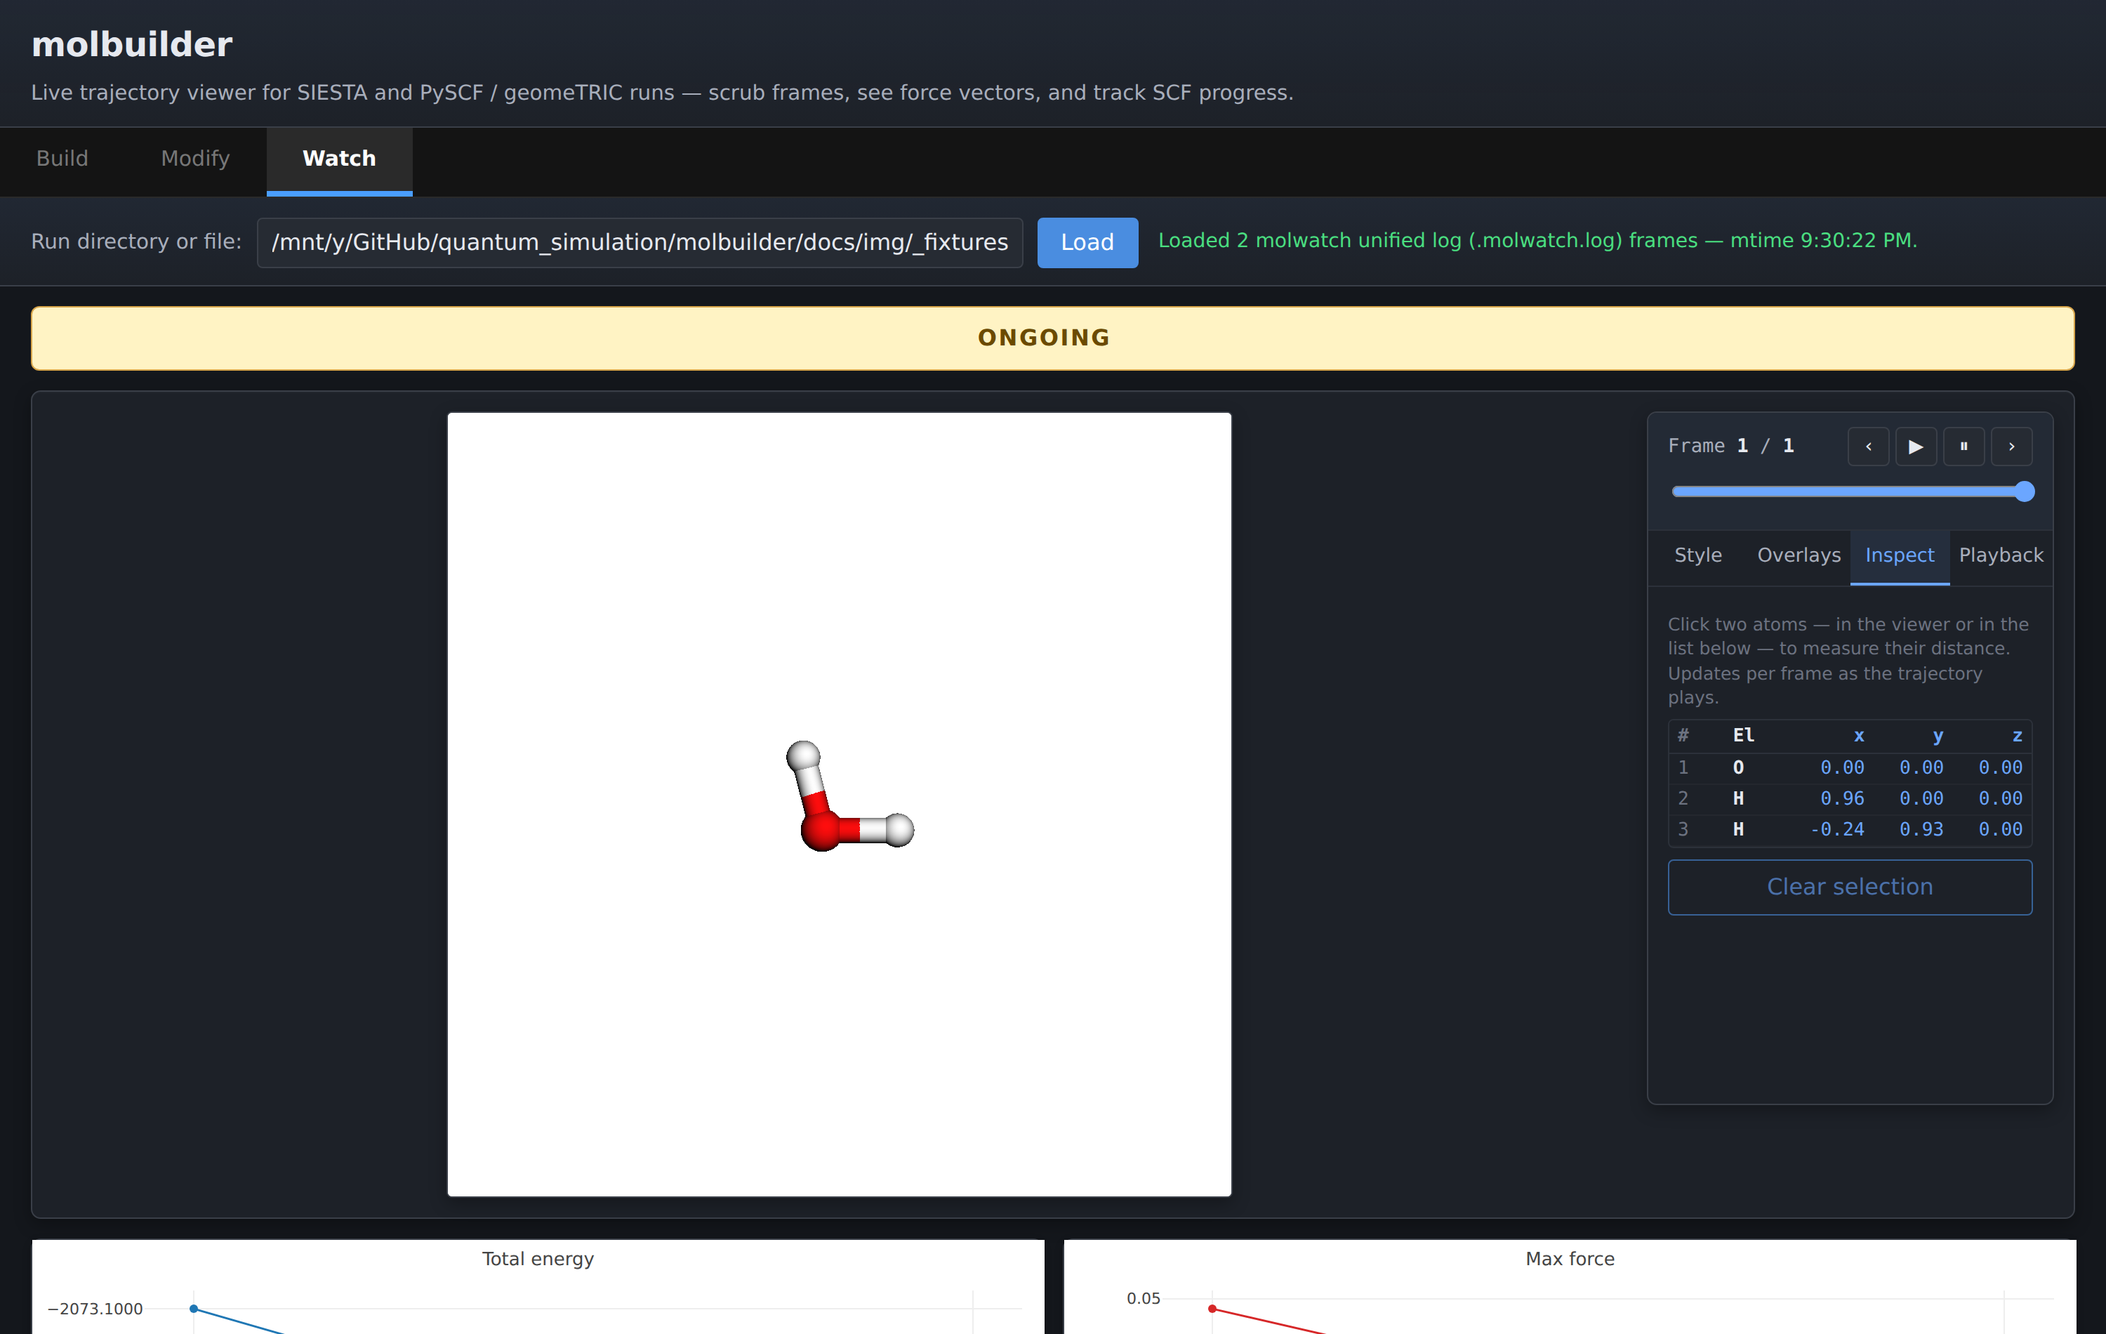
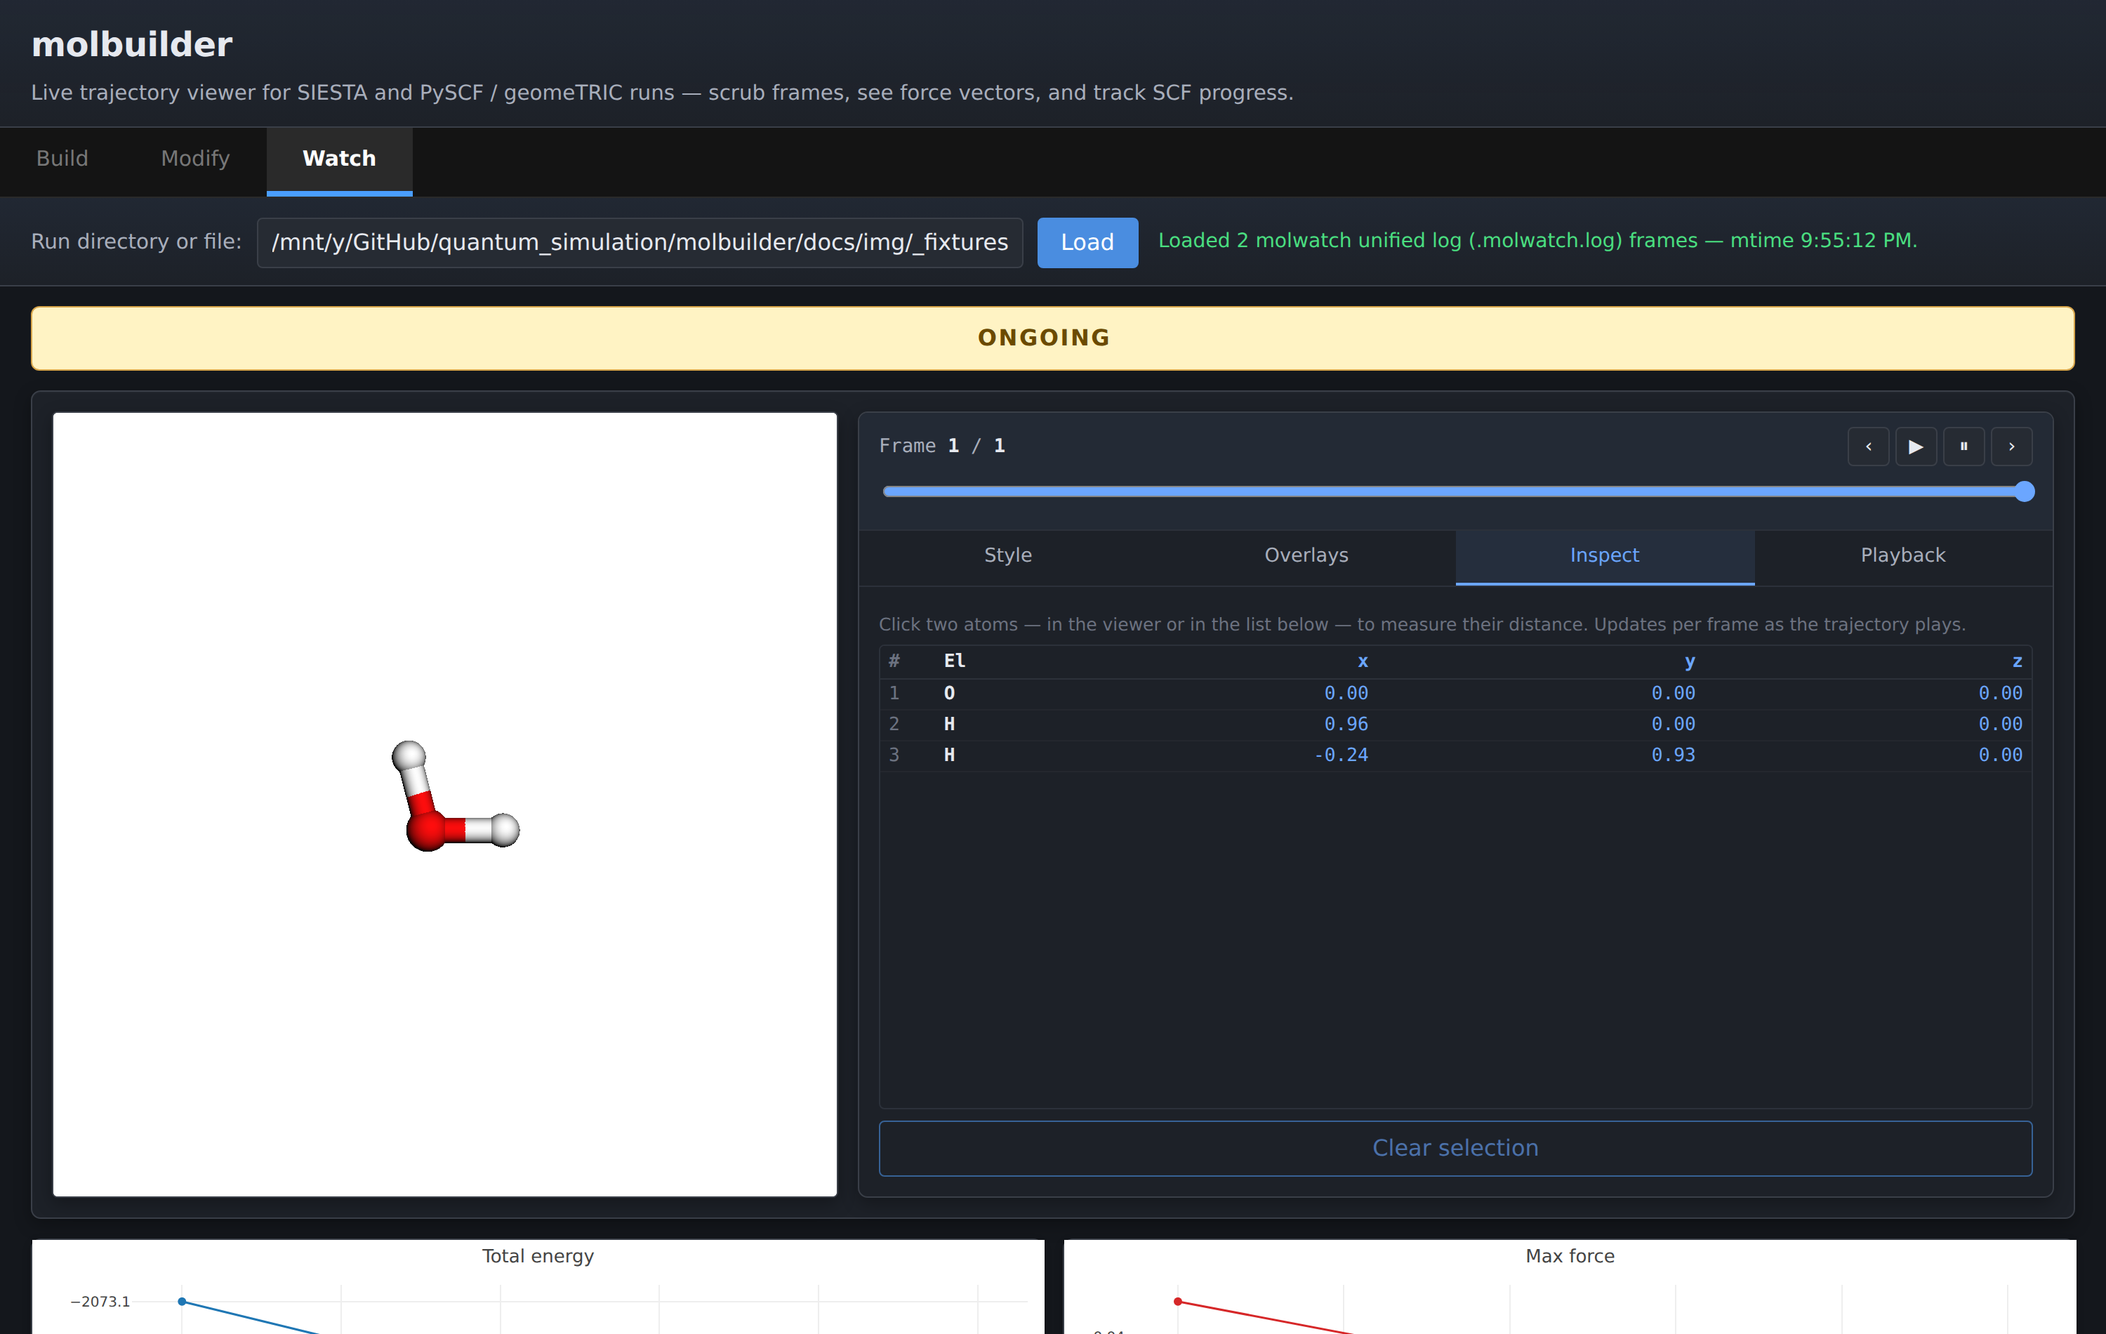
Watch: viewer-row uses full width; 4-plot responsive grid; tighter ticks
Four issues the user raised on the Watch layout, all fixed together.

1. Viewer-row wasted lateral space + over-constrained aside
----------------------------------------------------------
Before: viewer was max-width 560 / margin auto / centred in a much
wider grid column, with the controls aside fixed at 290 px width
and the row height capped at clamp(360, 52vh, 500).  Result on a
wide laptop: ~400 px of dead space left of the viewer, plus a
cramped aside that couldn't use its full content area.

Now: ``grid-template-columns: auto minmax(0, 1fr)``.  The viewer
takes its intrinsic ``--viewer-extent`` square (clamp(320, 60vh,
560)), and the aside expands to fill ALL remaining horizontal
space.  No more dead column.  The aside's vertical extent matches
the viewer (same ``--viewer-extent`` var); internal panel scroll
handles content overflow.

2. Inspect tab had nested scrollbars
------------------------------------
Before: the ctab-panel had ``overflow-y: auto`` AND the
.inspect-list-wrap had its own ``max-height: 240px; overflow-y:
auto``.  Two scrollbars stacked -- confusing, and the atom list
couldn't grow to use the larger control aside.

Now: the Inspect panel becomes a flex column.  The atom-list-wrap
gets ``flex: 1; min-height: 0; overflow-y: auto`` and is the ONE
scrollable region; the hint, distance table, and Clear button stay
anchored at their natural sizes below.  Single scrollbar; the list
grows / shrinks with the aside's height.
[…]

diff --git a/molbuilder/web/static/watch/style.css b/molbuilder/web/static/watch/style.css
@@ -14,12 +14,12 @@
     --shadow-soft:    0 1px 0 rgba(255, 255, 255, 0.02) inset,
                       0 2px 6px rgba(0, 0, 0, 0.25);
 
-    /* The single source of truth for the height of the viewer +
-       controls row.  `clamp` makes it responsive to viewport: never
-       below 360px, never above 500px, around 52% of viewport height
-       in between.  Updating this one variable rescales both columns
-       in lockstep. */
-    --viewer-height:  clamp(360px, 52vh, 500px);
+    /* Square-side length of the viewer panel.  The viewer is
+     * aspect-ratio 1:1 and both width + height resolve to this
+     * variable; the .controls aside picks up the same value as its
+     * fixed height so the two panels align top + bottom.  Updating
+     * this one variable rescales both columns in lockstep. */
+    --viewer-extent:  clamp(320px, 60vh, 560px);
 }
 
 * { box-sizing: border-box; }
@@ -141,24 +141,29 @@ main {
  * stretching to the viewer's height — any extra height triggers the
  * aside's internal scroll instead of pushing the plots row down.
  */
+/* Viewer-row layout:
+ *
+ *   [ square viewer ] [ controls aside grows to fill remaining width ]
+ *
+ * The viewer is a fixed-aspect square (1:1, 320-560 px clamped to
+ * 60vh); the aside takes the remaining horizontal space so we
+ * don't waste lateral room on wide displays.  Both panels share
+ * the viewer's vertical extent via ``align-items: stretch`` -- the
+ * aside ends up exactly as tall as the viewer is wide.  Internal
+ * panel scroll (.ctab-panel.is-active) handles content overflow
+ * inside the aside; the row itself never grows past the viewer's
+ * height clamp.
+ */
 .viewer-row {
     display: grid;
-    grid-template-columns: minmax(0, 1fr) 290px;
+    grid-template-columns: auto minmax(0, 1fr);
     gap: var(--gap);
-    align-items: start;
+    align-items: stretch;
 }
 
-/* Square viewer, consistent with Build + Modify (aspect-ratio 1:1,
- * 320 - 560 px clamped to 60vh).  The right-hand .controls aside
- * tracks the same vertical extent so the two panels align top + bot.
- */
 #viewer {
-    width: 100%;
-    max-width: 560px;
-    aspect-ratio: 1 / 1;
-    min-height: 320px;
-    max-height: min(60vh, 560px);
-    margin: 0 auto;
+    width: var(--viewer-extent);
+    height: var(--viewer-extent);
     border: 1px solid var(--border-strong);
     background: #ffffff;         /* same white bg as builder's viewer-wrap */
     position: relative;
@@ -173,12 +178,9 @@ main {
     display: flex;
     flex-direction: column;
     gap: 0;
-    /* Match the viewer's height clamp so the right aside aligns with
-     * the square viewer panel.  ``--viewer-height`` is kept as the
-     * legacy variable name; value is the same min(60vh, 560px). */
-    height: var(--viewer-height);
-    min-height: 320px;
-    max-height: min(60vh, 560px);
+    /* Track the viewer's square side length so the two panels align
+     * top + bottom; internal panel scroll handles content overflow. */
+    height: var(--viewer-extent);
     background: var(--bg-card);
     border: 1px solid var(--border-strong);
     border-radius: var(--radius);
@@ -379,29 +381,39 @@ button:disabled {
 
 /* ---- Plots row ---- */
 
+/* All four plot tiles (energy + force + scf-energy + scf-gnorm)
+ * live in one grid that reflows responsively:
+ *   wide:   4 columns
+ *   narrow: 2 columns
+ *   phone:  1 column
+ * ``auto-fit, minmax(280px, 1fr)`` gives this without media queries
+ * and automatically collapses hidden cells (when SCF data is
+ * absent, those two cells carry ``hidden`` and ``display: none``,
+ * so the remaining 2 plots take half the width each). */
 .plots-row {
     display: grid;
-    grid-template-columns: 1fr 1fr;
+    grid-template-columns: repeat(auto-fit, minmax(280px, 1fr));
     gap: var(--gap);
 }
 .plot {
-    /* Slightly more compact than before so the dashboard fits a 1080p
-       laptop screen without scrolling. */
-    height: clamp(220px, 28vh, 300px);
+    height: clamp(200px, 24vh, 260px);
     border: 1px solid var(--border-strong);
     background: var(--bg-card);
     border-radius: var(--radius);
     box-shadow: var(--shadow-soft);
 }
 
-/* ---- SCF-progress panel (engine-agnostic) ---- */
+/* ---- SCF-progress banner (engine-agnostic) ---- */
 
-.scf-row {
-    display: flex;
-    flex-direction: column;
-    gap: 8px;
-}
+.scf-banner-row { display: flex; }
+/* HTML5 ``hidden`` attribute must beat the display: flex above and
+ * the display: grid on .plots-row below; the browser's default
+ * [hidden]{display:none} loses to the .* rules without an explicit
+ * override. */
+.scf-banner-row[hidden] { display: none; }
+.plot[hidden]           { display: none; }
 .scf-banner {
+    flex: 1;
     background: var(--bg-card);
     border: 1px solid var(--border-strong);
     border-left: 3px solid var(--accent);
@@ -420,12 +432,6 @@ button:disabled {
     font-family: ui-monospace, "JetBrains Mono", Menlo, Consolas, monospace;
     font-size: 0.85rem;
 }
-.scf-plots {
-    display: grid;
-    grid-template-columns: 1fr 1fr;
-    gap: var(--gap);
-}
-.scf-plots .plot { height: clamp(180px, 22vh, 230px); }
 
 /* ---- Inspect tab: atom-pick + distance ----
  *
@@ -434,12 +440,29 @@ button:disabled {
  * distance row is highlighted via the accent colour so the user's
  * eye lands on it.
  */
-/* Scrollable atom list -- the keyboard-friendly path to selection.
- * Sits ABOVE the distance table; row click toggles a pick.  Compact
- * monospace layout so the narrow control aside fits 5 columns
- * (index, element, x, y, z) without wrapping. */
+/* Inspect ctab-panel becomes a flex column: the atom-list grows to
+ * fill the remaining height inside the controls aside (the ONE
+ * scrollable region); the hint, distance table, and Clear button
+ * stay anchored beneath at their natural sizes.  Drops the previous
+ * double-scrollbar (panel + atom-list-wrap both had overflow auto).
+ */
+.ctab-panel[data-panel="inspect"] {
+    display: none;
+    flex-direction: column;
+    overflow: hidden;    /* panel does NOT scroll; inner list does */
+    min-height: 0;
+}
+.ctab-panel[data-panel="inspect"].is-active {
+    display: flex;
+}
+
+/* The atom list is the only growing / scrolling child of the
+ * Inspect panel.  ``flex: 1`` + ``min-height: 0`` lets it shrink
+ * below its content height so the scrollbar appears inside it
+ * (sticky <thead> stays pinned). */
 .inspect-list-wrap {
-    max-height: 240px;
+    flex: 1;
+    min-height: 0;
     overflow-y: auto;
     margin: 6px 0 8px;
     border: 1px solid var(--border-soft);
@@ -627,13 +650,11 @@ button:disabled {
     /* Stack viewer above controls; controls expand to natural height. */
     .viewer-row { grid-template-columns: 1fr; }
     .controls   { height: auto; max-height: 60vh; }
-    .plots-row  { grid-template-columns: 1fr; }
-    .scf-plots  { grid-template-columns: 1fr; }
 }
 @media (max-width: 640px) {
     .loader input[type="text"] { min-width: 0; flex: 1; }
     main, header, .loader-bar { padding-left: 12px; padding-right: 12px; }
-    :root { --viewer-height: clamp(280px, 50vh, 380px); }
+    :root { --viewer-extent: clamp(240px, 70vw, 380px); }
 }
 
 /* ---- Run-state badge: fixed prominent indicator above the viewer.

diff --git a/molbuilder/web/static/watch/viewer.js b/molbuilder/web/static/watch/viewer.js
@@ -625,10 +625,23 @@
             connectgaps: false,
         }], {
             title: { text: "Total energy", font: { size: 13 } },
-            margin: { l: 80, r: 16, t: 36, b: 44 },
-            xaxis: { title: "CG step", dtick: 1, zeroline: false },
-            yaxis: { title: "E_KS (eV)", tickformat: ".4f", zeroline: false },
-            font: { family: "system-ui, sans-serif", size: 11 },
+            // automargin: true lets Plotly pick the left/bottom
+            // margins from the actual tick-label widths -- shorter
+            // axis numbers thus claw back lateral space.
+            margin: { l: 8, r: 12, t: 32, b: 32 },
+            // No fixed dtick: let Plotly pick a sparse number of
+            // ticks (~5-7) and skip integer labels at high frame
+            // counts.  tickformat=".6~r" gives "shortest unique"
+            // numbers (drops trailing zeros), so e.g. an energy
+            // like -2073.1000 shows as "-2073.1" instead of
+            // "-2073.1000" -- big lateral-space win.
+            xaxis: { title: { text: "CG step", standoff: 4 },
+                     zeroline: false, automargin: true,
+                     nticks: 6 },
+            yaxis: { title: { text: "E_KS (eV)", standoff: 4 },
+                     tickformat: ".6~r", zeroline: false,
+                     automargin: true, nticks: 5 },
+            font: { family: "system-ui, sans-serif", size: 10 },
             shapes:      stageMx.shapes,
             annotations: stageMx.annotations,
         }, { displayModeBar: false, responsive: true });
@@ -643,10 +656,15 @@
             connectgaps: false,
         }], {
             title: { text: "Max force", font: { size: 13 } },
-            margin: { l: 70, r: 16, t: 36, b: 44 },
-            xaxis: { title: "CG step", dtick: 1, zeroline: false },
-            yaxis: { title: "Max |F| (eV/\u00C5)", rangemode: "tozero", zeroline: false },
-            font: { family: "system-ui, sans-serif", size: 11 },
+            margin: { l: 8, r: 12, t: 32, b: 32 },
+            xaxis: { title: { text: "CG step", standoff: 4 },
+                     zeroline: false, automargin: true,
+                     nticks: 6 },
+            yaxis: { title: { text: "Max |F| (eV/\u00C5)", standoff: 4 },
+                     tickformat: ".3~r",
+                     rangemode: "tozero", zeroline: false,
+                     automargin: true, nticks: 5 },
+            font: { family: "system-ui, sans-serif", size: 10 },
             shapes:      stageMx.shapes,
             annotations: stageMx.annotations,
         }, { displayModeBar: false, responsive: true });
@@ -663,9 +681,16 @@
      */
     function renderScfProgress() {
         const section = $("scf-section");
+        const scfEnergyEl = $("scf-energy-plot");
+        const scfGnormEl  = $("scf-gnorm-plot");
         const history = state.data && state.data.scf_history;
-        if (!history || history.length === 0) {
+        const hideScf = () => {
             section.hidden = true;
+            scfEnergyEl.hidden = true;
+            scfGnormEl.hidden  = true;
+        };
+        if (!history || history.length === 0) {
+            hideScf();
             return;
         }
 
@@ -688,10 +713,12 @@
             // No step has SCF detail yet (e.g., file contains only
             // the initial preview).  Hide the SCF panel until the
             // first real SCF block lands.
-            section.hidden = true;
+            hideScf();
             return;
         }
-        section.hidden = false;
+        section.hidden     = false;
+        scfEnergyEl.hidden = false;
+        scfGnormEl.hidden  = false;
 
         const cycles   = current.map(c => c.cycle);
         const energies = current.map(c => c.energy);
@@ -765,16 +792,20 @@
             name: "E",
         }], {
             title: { text: "SCF energy (current step)", font: { size: 12 } },
-            margin: { l: 80, r: 16, t: 32, b: 40 },
-            xaxis: { title: "SCF cycle", dtick: 1, zeroline: false },
-            yaxis: { title: "E (eV)", tickformat: ".4f", zeroline: false },
+            margin: { l: 8, r: 12, t: 28, b: 30 },
+            xaxis: { title: { text: "SCF cycle", standoff: 4 },
+                     zeroline: false, automargin: true,
+                     nticks: 6 },
+            yaxis: { title: { text: "E (eV)", standoff: 4 },
+                     tickformat: ".6~r", zeroline: false,
+                     automargin: true, nticks: 5 },
             font: { family: "system-ui, sans-serif", size: 10 },
         }, { displayModeBar: false, responsive: true });
 
         // Residual on log y-axis -- spans many decades during SCF.
         const resPlotEl = $("scf-gnorm-plot");
         if (residual !== null) {
-            resPlotEl.style.display = "";
+            resPlotEl.hidden = false;
             Plotly.react("scf-gnorm-plot", [{
                 x: cycles,
                 y: residual,
@@ -785,14 +816,18 @@
             }], {
                 title: { text: "SCF residual " + residualName,
                          font: { size: 12 } },
-                margin: { l: 70, r: 16, t: 32, b: 40 },
-                xaxis: { title: "SCF cycle", dtick: 1, zeroline: false },
-                yaxis: { title: residualName + " (" + residualUnit + ")",
-                         type: "log", zeroline: false, tickformat: ".0e" },
+                margin: { l: 8, r: 12, t: 28, b: 30 },
+                xaxis: { title: { text: "SCF cycle", standoff: 4 },
+                         zeroline: false, automargin: true,
+                         nticks: 6 },
+                yaxis: { title: { text: residualName + " (" + residualUnit + ")",
+                                  standoff: 4 },
+                         type: "log", zeroline: false, tickformat: ".0e",
+                         automargin: true, nticks: 5 },
                 font: { family: "system-ui, sans-serif", size: 10 },
             }, { displayModeBar: false, responsive: true });
         } else {
-            resPlotEl.style.display = "none";
+            resPlotEl.hidden = true;
         }
     }
 

diff --git a/molbuilder/web/templates/watch.html b/molbuilder/web/templates/watch.html
@@ -201,26 +201,30 @@ FILE mode (back-compat; also supported):
   </section><!-- /.viewer-row -->
   </section><!-- /.card.viewer-card -->
 
-  <section class="plots-row">
-    <div id="energy-plot" class="plot"></div>
-    <div id="force-plot" class="plot"></div>
-  </section>
-
-  <!-- Engine-agnostic SCF-iteration progress for the most recent
-       opt step.  Hidden when the loaded file has no scf_history
-       (e.g. SIESTA whose `scf:` lines weren't yet captured, or a
-       PySCF run whose .log wasn't found next to the trajectory).
-       The banner title and the residual axis adapt to the engine
-       at render time -- see renderScfProgress() in viewer.js. -->
-  <section class="scf-row" id="scf-section" hidden>
+  <!-- SCF-progress banner -- engine-agnostic title/status for the
+       most-recent opt step's SCF cycles.  Banner sits above the plot
+       row; the two SCF plots live INSIDE the same plots-row grid
+       below so all four (energy + force + scf-energy + scf-gnorm)
+       can line up side-by-side at wide widths.  The banner +
+       individual SCF plots are hidden when scf_history is empty. -->
+  <section class="scf-banner-row" id="scf-section" hidden>
     <div class="scf-banner">
       <strong id="scf-title">SCF progress</strong>
       <span id="scf-status" class="scf-status"></span>
     </div>
-    <div class="scf-plots">
-      <div id="scf-energy-plot" class="plot"></div>
-      <div id="scf-gnorm-plot"  class="plot"></div>
-    </div>
+  </section>
+
+  <!-- Plots row: 4 plots when there's space, 2 when narrower, 1 on
+       phones.  ``auto-fit`` with a minimum 280px reflows
+       automatically.  Individual SCF plots are ``hidden`` when no
+       SCF data is available; CSS ``display: none`` on the hidden
+       attribute removes them from the grid so the remaining cells
+       redistribute. -->
+  <section class="plots-row">
+    <div id="energy-plot"     class="plot"></div>
+    <div id="force-plot"      class="plot"></div>
+    <div id="scf-energy-plot" class="plot" hidden></div>
+    <div id="scf-gnorm-plot"  class="plot" hidden></div>
   </section>
 
   <!-- Staged-relaxation workflow guide.  Always rendered; a
